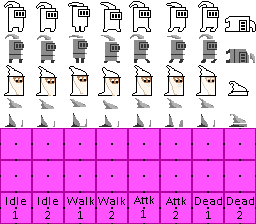
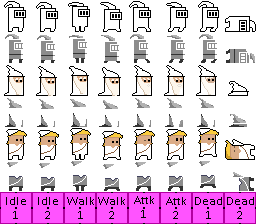
Finished starting the entities!
Pathfinding and AI is complete! Also, the final character has been created!

diff --git a/src/z5217759/brennfleck/jarod/battlecell/entities/ai/BCState.java b/src/z5217759/brennfleck/jarod/battlecell/entities/ai/BCState.java
@@ -12,6 +12,7 @@ import com.thebrenny.jumg.entities.ai.pathfinding.NodeList;
 import com.thebrenny.jumg.entities.ai.states.State;
 import com.thebrenny.jumg.gui.Screen;
 import com.thebrenny.jumg.level.tiles.Tile;
+import com.thebrenny.jumg.util.Angle;
 import com.thebrenny.jumg.util.MathUtil;
 
 import z5217759.brennfleck.jarod.battlecell.entities.BCEntity;
@@ -36,7 +37,7 @@ public enum BCState implements State<BCEntity> {
 				NodeList path = brain.getPathToTarget();
 				if(path != null) {
 					int proximTest = path.testStepReached(entity.getAnchoredTileX(), entity.getAnchoredTileY(), NodeList.DEFAULT_TEST_DISTANCE);
-					if(brain.getTargetDistance() > MathUtil.distance(brain.getTarget().getAnchoredTileLocation(), entity.getAnchoredTileLocation())) brain.changeState(BCState.ATTACK);
+					if(brain.getTargetDistance() >= MathUtil.distance(entity.getAnchoredTileLocation(), brain.getTarget().getAnchoredTileLocation())) brain.changeState(BCState.ATTACK);
 					else entity.addMovementTo(path.getCurrentStep());
 				}
 			} else brain.changeState(BCState.IDLE);
@@ -67,7 +68,8 @@ public enum BCState implements State<BCEntity> {
 			BCStateMachine brain = entity.getBrain();
 			
 			if(brain.hasTarget()) {
-				if(brain.getTargetDistance() > MathUtil.distance(brain.getTarget().getAnchoredTileLocation(), entity.getAnchoredTileLocation())) {
+				if(brain.getTargetDistance() >= MathUtil.distance(entity.getAnchoredTileLocation(), brain.getTarget().getAnchoredTileLocation())) {
+					entity.setAngle(Angle.getAngle(entity.getAnchoredTileLocation(), brain.getTarget().getAnchoredTileLocation()));
 					// attack! -- this'll probs be the start of the message system. rip.
 				} else brain.changeState(BCState.PERSUE);
 				if(!brain.getTarget().isAlive()) brain.changeState(BCState.IDLE);

diff --git a/src/z5217759/brennfleck/jarod/battlecell/entities/BCEntity.java b/src/z5217759/brennfleck/jarod/battlecell/entities/BCEntity.java
@@ -56,7 +56,9 @@ public abstract class BCEntity extends EntityLiving {
 	}
 	
 	public final void tick() {
-		if(this.brain != null) this.brain.tick();
+		if(this.brain != null) {
+			this.brain.tick();
+		}
 		updateCounters();
 		update();
 		move();
@@ -68,15 +70,16 @@ public abstract class BCEntity extends EntityLiving {
 	}
 	
 	public Entity setAngle(float angle) {
-		facingRight = angle % 360 < 180;
-		return super.setAngle(angle);
+		Entity e = super.setAngle(angle);
+		facingRight = getAngle().getAngle() < 180;
+		return e;
 	}
 	public Entity setAngle(Angle angle) {
-		facingRight = angle.getAngle() % 360 < 180;
-		return super.setAngle(angle);
+		Entity e = super.setAngle(angle);
+		facingRight = getAngle().getAngle() < 180;
+		return e;
 	}
 	
-	@Override
 	public float heal(float amount) {
 		this.healthCounter = this.healthCounterMax;
 		return super.heal(amount);
@@ -112,7 +115,7 @@ public abstract class BCEntity extends EntityLiving {
 	 *        - Which stage was triggered. 0 is reset.
 	 */
 	public void counterEvent(int counter, int counterStage) {
-		incrementSprite();
+		setSpriteMeta(counterStage);
 	}
 	
 	public AnimationState getAnimationState() {
@@ -121,8 +124,9 @@ public abstract class BCEntity extends EntityLiving {
 	public void setAnimationState(AnimationState state) {
 		if(this.animationState != state) {
 			this.animationState = state;
+			this.setSpriteMeta(0);
 			this.requestImageUpdate();
-			onAnimationStateChanged(this.animationState);
+			this.onAnimationStateChanged(this.animationState);
 		}
 	}
 	public abstract void onAnimationStateChanged(AnimationState state);

diff --git a/src/z5217759/brennfleck/jarod/battlecell/entities/EntityArcher.java b/src/z5217759/brennfleck/jarod/battlecell/entities/EntityArcher.java
@@ -1,0 +1,33 @@
+package z5217759.brennfleck.jarod.battlecell.entities;
+
+import z5217759.brennfleck.jarod.battlecell.entities.ai.ArcherStateMachine;
+
+public class EntityArcher extends BCEntity {
+    public static final int[] IDLE_COUNTER_TRIGGERS = DEFAULT_IDLE_COUNTER_TRIGGERS;
+    public static final int[] WALK_COUNTER_TRIGGERS = DEFAULT_WALK_COUNTER_TRIGGERS;
+    public static final int[] ATTACK_COUNTER_TRIGGERS = {60, 80};
+    public static final int[] DEAD_COUNTER_TRIGGERS = {50};
+    
+    public EntityArcher(String name, float x, float y) {
+        super(name, x, y, BCEntity.Type.ARCHER);
+        setBrain(new ArcherStateMachine(this));
+    }
+    public void update() {
+    }
+    public void onAnimationStateChanged(AnimationState state) {
+        switch(state) {
+        case IDLE:
+            setCounterTrigger(IDLE_COUNTER_TRIGGERS);
+            break;
+        case WALK:
+            setCounterTrigger(WALK_COUNTER_TRIGGERS);
+            break;
+        case ATTACK:
+            setCounterTrigger(ATTACK_COUNTER_TRIGGERS);
+            break;
+        case DEAD:
+            setCounterTrigger(DEAD_COUNTER_TRIGGERS);
+            break;
+        }
+    }
+}

diff --git a/src/z5217759/brennfleck/jarod/battlecell/gui/ScreenGameBattleCell.java b/src/z5217759/brennfleck/jarod/battlecell/gui/ScreenGameBattleCell.java
@@ -7,8 +7,9 @@ import com.thebrenny.jumg.level.tiles.Tile;
 import com.thebrenny.jumg.util.MathUtil;
 
 import z5217759.brennfleck.jarod.battlecell.BattleCell;
-import z5217759.brennfleck.jarod.battlecell.entities.EntityDummy;
+import z5217759.brennfleck.jarod.battlecell.entities.EntityArcher;
 import z5217759.brennfleck.jarod.battlecell.entities.EntityMagician;
+import z5217759.brennfleck.jarod.battlecell.entities.EntityWarrior;
 import z5217759.brennfleck.jarod.battlecell.hud.BCHudManager;
 import z5217759.brennfleck.jarod.battlecell.level.BattleCellLevel;
 
@@ -21,8 +22,8 @@ public class ScreenGameBattleCell extends ScreenGame {
 		// TODO: TESTING!
 		EntityMagician player = (EntityMagician) new EntityMagician(BattleCell.getMainGame().getUsername(), 0, 0).setControlled(true);
 		this.level.addEntity(player);
-		//this.level.addEntity(new EntityWarrior("WARRIOR", 10, -11));
-		this.level.addEntity(new EntityDummy("DUMMY", 10, 10));
+		this.level.addEntity(new EntityWarrior("WARRIOR", 10, -11));
+		this.level.addEntity(new EntityArcher("ARCHER", -10, -11));
 		//setEntityToFollow(player);
 	}
 	

diff --git a/src/z5217759/brennfleck/jarod/battlecell/entities/ai/BCStateMachine.java b/src/z5217759/brennfleck/jarod/battlecell/entities/ai/BCStateMachine.java
@@ -49,9 +49,10 @@ public abstract class BCStateMachine extends DefaultStateMachine<BCEntity, BCSta
 		this.target = target;
 	}
 	
-	public NodeList getPathToTarget() {
+	public synchronized NodeList getPathToTarget() {
 		if(pathToTarget == null) {
-			this.pathToTarget = new PathFinding(this.getOwner().getAnchoredTileLocation(), this.getTarget().getAnchoredTileLocation(), this.getOwner().getLevel()).search(getTargetDistance(), true);
+			PathFinding pf = new PathFinding(this.getOwner().getAnchoredTileLocation(), this.getTarget().getAnchoredTileLocation(), this.getOwner().getLevel());
+			this.pathToTarget = pf.search(true);
 			this.pathLifeLeft = PATH_LIFE;
 		}
 		return pathToTarget;

diff --git a/src/z5217759/brennfleck/jarod/battlecell/entities/ai/ArcherStateMachine.java b/src/z5217759/brennfleck/jarod/battlecell/entities/ai/ArcherStateMachine.java
@@ -1,0 +1,18 @@
+package z5217759.brennfleck.jarod.battlecell.entities.ai;
+
+import z5217759.brennfleck.jarod.battlecell.entities.BCEntity.Type;
+import z5217759.brennfleck.jarod.battlecell.entities.EntityArcher;
+
+public class ArcherStateMachine extends BCStateMachine {
+    public ArcherStateMachine(EntityArcher owner) {
+        super(owner);
+    }
+    
+    public EntityArcher getOwner() {
+        return (EntityArcher) super.getOwner();
+    }
+    
+    public float getTargetDistance() {
+        return Type.ARCHER.attackDistance;
+    }
+}

diff --git a/src/z5217759/brennfleck/jarod/battlecell/level/BattleCellLevel.java b/src/z5217759/brennfleck/jarod/battlecell/level/BattleCellLevel.java
@@ -18,4 +18,6 @@ public class BattleCellLevel extends Level {
 			super(MAP_LOCATION + ".main_map.bcmap", true, BCTile.getTile(BCTile.Type.STONE));
 		}
 	}
+	public void expandMap(int x, int y) {
+	}
 }
